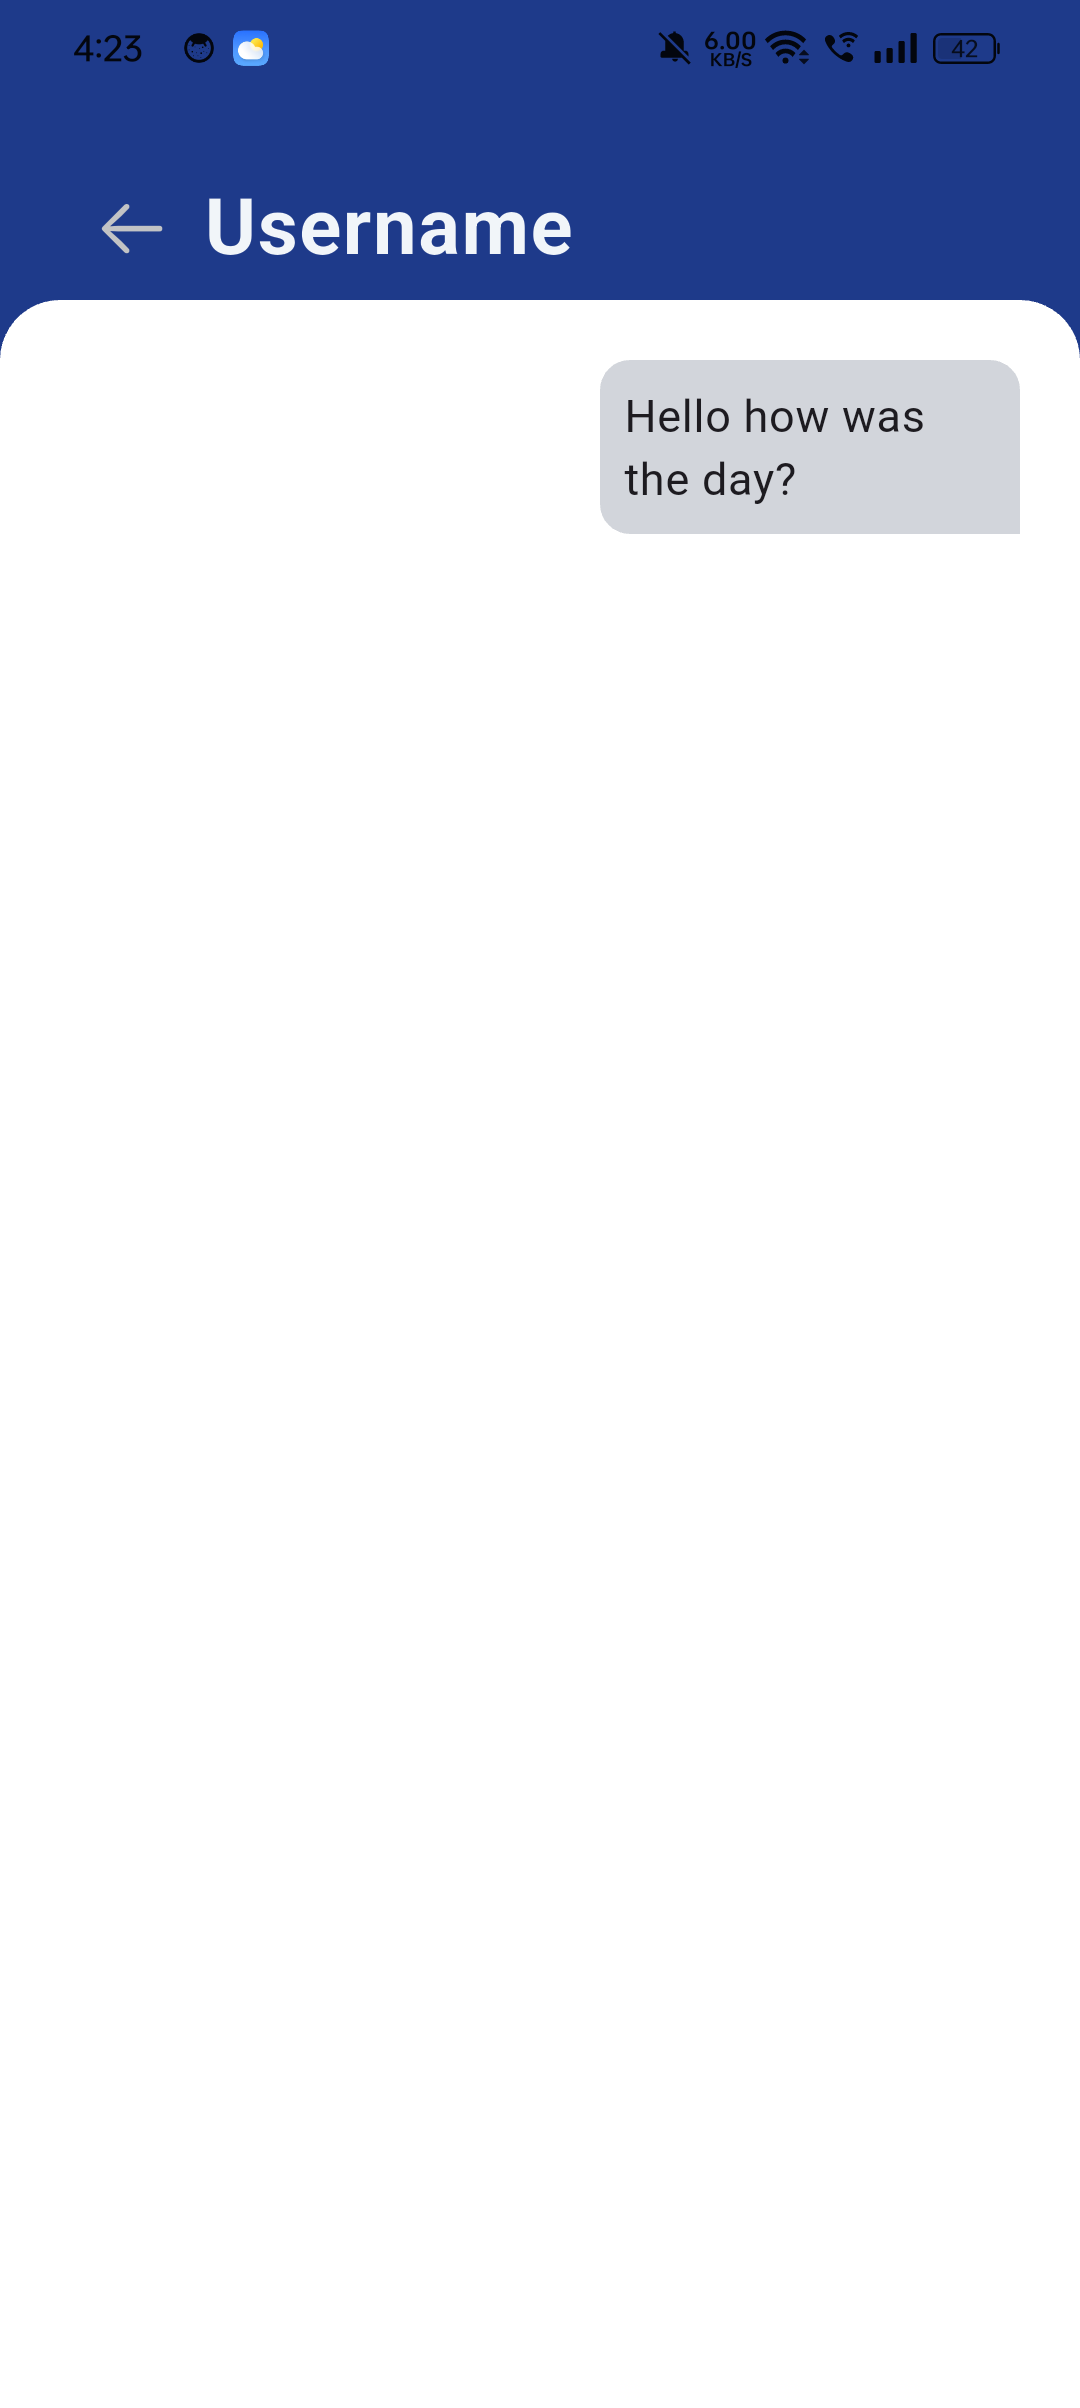
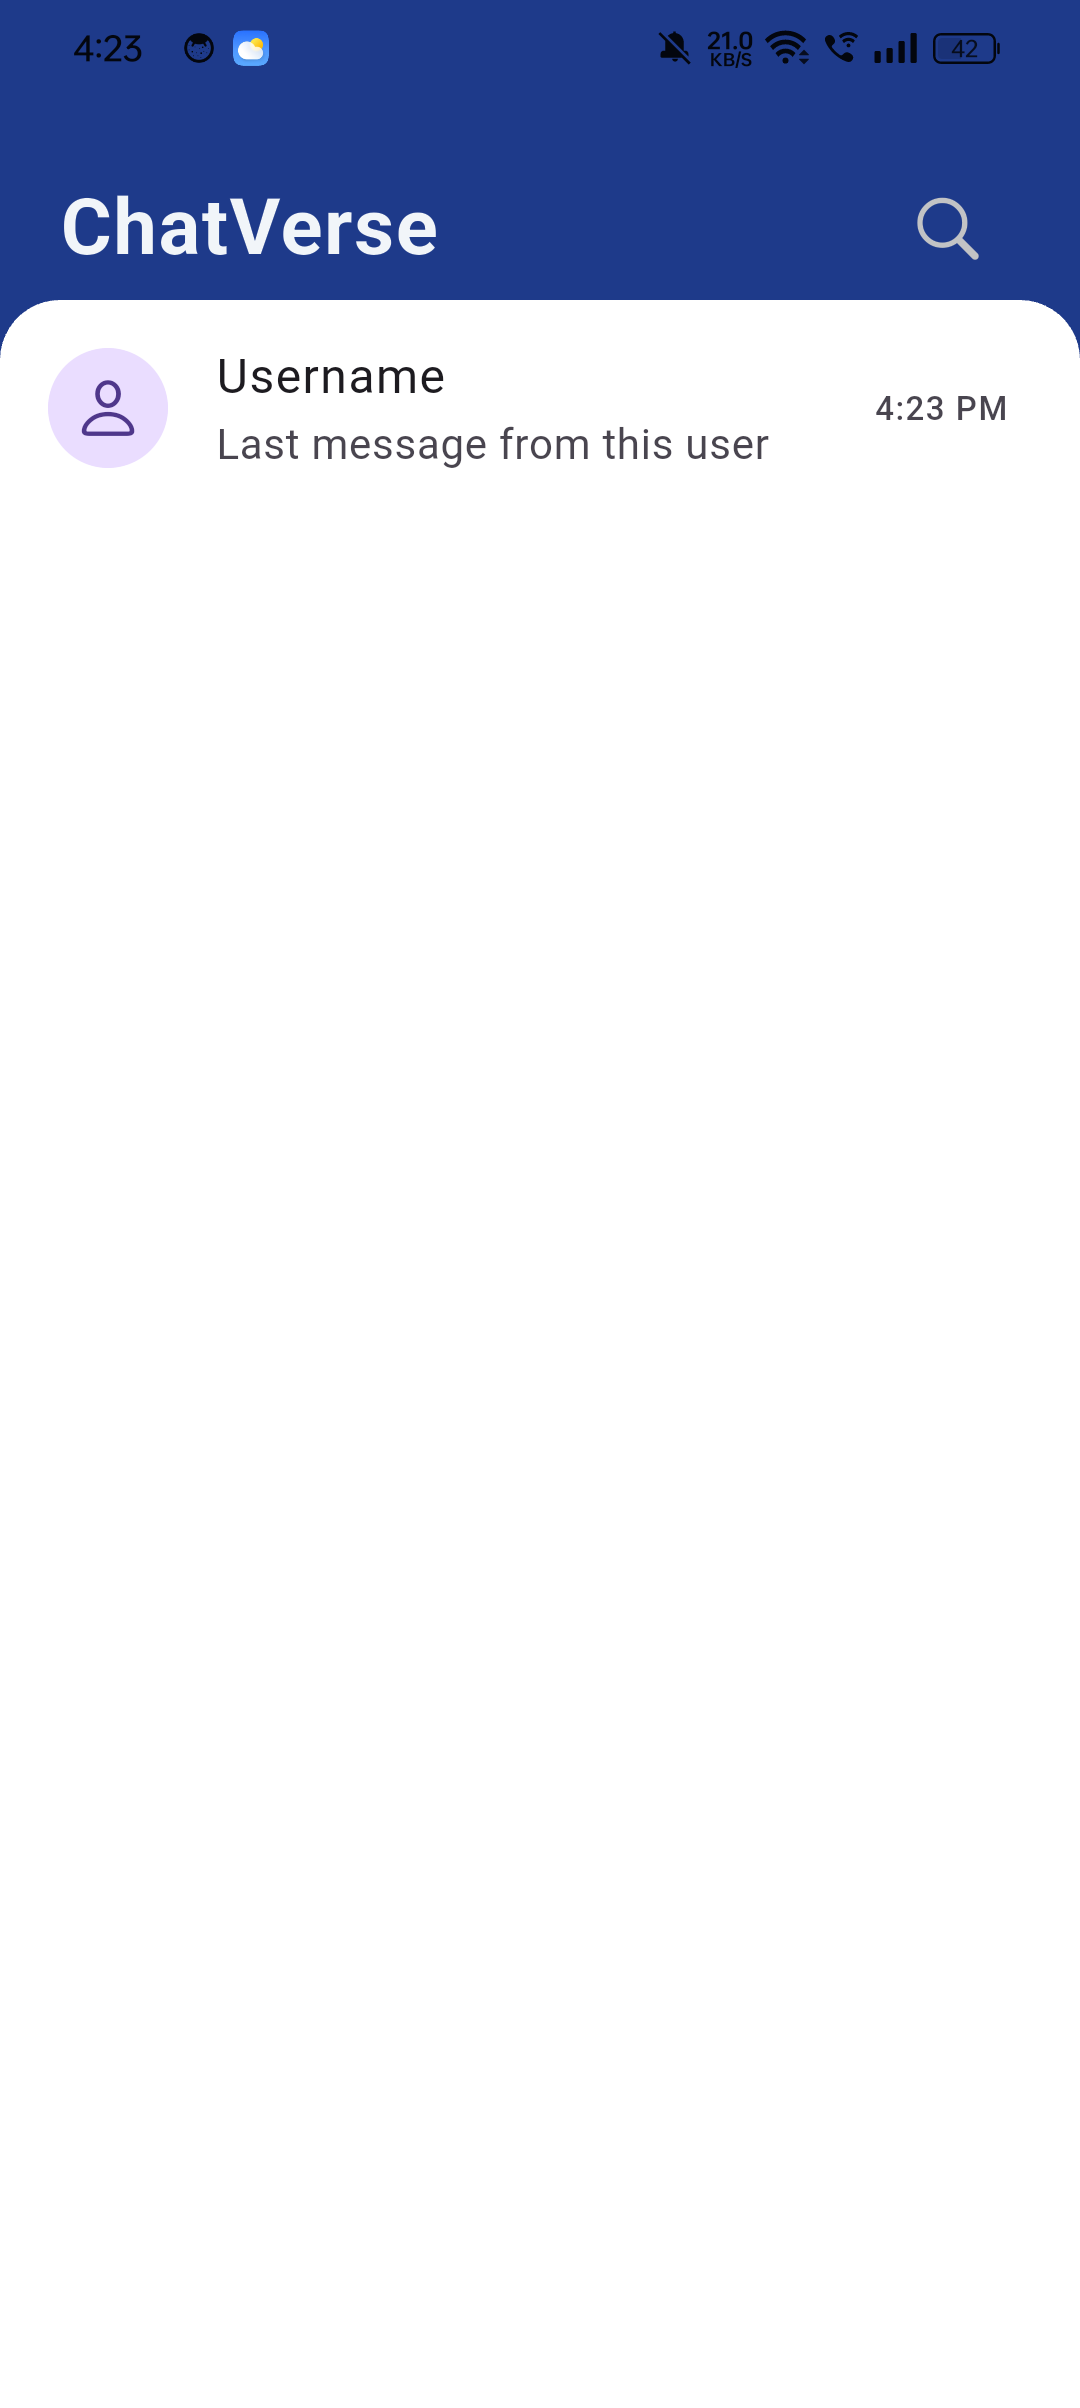
creating chat screen ui

diff --git a/app/lib/screens/chat_screen.dart b/app/lib/screens/chat_screen.dart
@@ -10,78 +10,175 @@ class ChatScreen extends StatefulWidget {
 }
 
 class _ChatScreenState extends State<ChatScreen> {
+  final _controller = TextEditingController();
   @override
   Widget build(BuildContext context) {
     return Scaffold(
       backgroundColor: const Color(0xFF1E3A8A),
-      body: Container(
-        key: ValueKey("container"),
-        child: ListView(
+      resizeToAvoidBottomInset: false,
+      body: SafeArea(
+        child: Column(
           children: [
             Padding(
-              padding: const EdgeInsets.only(
-                left: 20.0,
-                right: 20.0,
-                top: 20.0,
-              ),
-              child: Row(
-                // mainAxisAlignment: .spaceBetween,
-                children: [
-                  IconButton(
-                    onPressed: () {
-                      Navigator.pop(context);
-                    },
-                    icon: Icon(
-                      CupertinoIcons.arrow_left,
-                      color: Color.fromARGB(
-                        255,
-                        194,
-                        195,
-                        197,
-                      ).withValues(alpha: 1.2),
-                      size: 26,
-                    ),
-                  ),
-                  Text(
-                    widget.username,
-                    style: TextStyle(
-                      color: Color(0xFFF1F5F9),
-                      fontSize: 26.0,
-                      fontWeight: FontWeight.bold,
-                      letterSpacing: 0.5,
-                    ),
-                  ),
-                ],
-              ),
-            ),
-            Container(
-              padding: EdgeInsets.only(left: 20.0,right: 20.0,top: 20.0),
-              width: MediaQuery.of(context).size.width,
-              height: MediaQuery.of(context).size.height / 1.1,
-              decoration: BoxDecoration(
-                color: Colors.white,
-                borderRadius: BorderRadius.only(
-                  topLeft: Radius.circular(20),
-                  topRight: Radius.circular(20),
-                ),
-              ),
-              child: ListView(
-                children: [
-                  Container(
-                    padding: EdgeInsets.all(8),
-                   margin: EdgeInsets.only(left: MediaQuery.of(context).size.width/2),
-                    alignment: Alignment.bottomRight,
-                    decoration: BoxDecoration(
-                      color: Color.fromARGB(255, 210, 213, 219),
-                      borderRadius: BorderRadius.only(
-                        topLeft: Radius.circular(10),
-                        topRight: Radius.circular(10),
-                        bottomLeft: Radius.circular(10)
+              padding: const EdgeInsets.fromLTRB(20, 20, 20, 12),
+              child: SizedBox(
+                height: 56,
+                child: Stack(
+                  alignment: Alignment.center,
+                  children: [
+                    Align(
+                      alignment: Alignment.centerLeft,
+                      child: IconButton(
+                        onPressed: () => Navigator.pop(context),
+                        icon: const Icon(
+                          CupertinoIcons.arrow_left,
+                          color: Color(0xFFC2C3C5),
+                          size: 26,
+                        ),
                       ),
                     ),
-                    child: Text("Hello how was the day?",style: TextStyle(fontSize: 15),),
+                    Padding(
+                      padding: const EdgeInsets.symmetric(horizontal: 56),
+                      child: Text(
+                        widget.username,
+                        maxLines: 1,
+                        overflow: TextOverflow.ellipsis,
+                        style: const TextStyle(
+                          color: Color(0xFFF1F5F9),
+                          fontSize: 26.0,
+                          fontWeight: FontWeight.bold,
+                          letterSpacing: 0.5,
+                        ),
+                      ),
+                    ),
+                  ],
+                ),
+              ),
+            ),
+            Expanded(
+              child: Container(
+                width: double.infinity,
+                decoration: const BoxDecoration(
+                  color: Colors.white,
+                  borderRadius: BorderRadius.only(
+                    topLeft: Radius.circular(20),
+                    topRight: Radius.circular(20),
                   ),
-                ],
+                ),
+                child: Padding(
+                  padding: EdgeInsets.only(
+                    bottom: MediaQuery.of(context)
+                        .viewInsets
+                        .bottom, 
+                  ),
+                  child: Column(
+                    children: [
+                      Expanded(
+                        child: ListView(
+                          padding: const EdgeInsets.all(20),
+                          children: [
+                            Align(
+                              alignment: Alignment.centerRight,
+                              child: Container(
+                                padding: const EdgeInsets.all(10),
+                                constraints: BoxConstraints(
+                                  maxWidth:
+                                      MediaQuery.of(context).size.width * 0.7,
+                                ),
+                                decoration: const BoxDecoration(
+                                  color: Color(0xFFD2D5DB),
+                                  borderRadius: BorderRadius.only(
+                                    topLeft: Radius.circular(10),
+                                    topRight: Radius.circular(10),
+                                    bottomLeft: Radius.circular(10),
+                                  ),
+                                ),
+                                child: const Text(
+                                  "Hello how was the day?",
+                                  style: TextStyle(fontSize: 15),
+                                ),
+                              ),
+                            ),
+                            const SizedBox(height: 20),
+                            Align(
+                              alignment: Alignment.centerLeft,
+                              child: Container(
+                                padding: const EdgeInsets.all(10),
+                                constraints: BoxConstraints(
+                                  maxWidth:
+                                      MediaQuery.of(context).size.width * 0.7,
+                                ),
+                                decoration: const BoxDecoration(
+                                  color: Color(0xFFC9C4C4),
+                                  borderRadius: BorderRadius.only(
+                                    topLeft: Radius.circular(10),
+                                    topRight: Radius.circular(10),
+                                    bottomRight: Radius.circular(10),
+                                  ),
+                                ),
+                                child: const Text(
+                                  "it was great! what about you?",
+                                  style: TextStyle(fontSize: 15),
+                                ),
+                              ),
+                            ),
+                          ],
+                        ),
+                      ),
+                      Padding(
+                        padding: const EdgeInsets.fromLTRB(12, 8, 12, 12),
+                        child: Row(
+                          crossAxisAlignment: CrossAxisAlignment.end,
+                          children: [
+                            Expanded(
+                              child: TextField(
+                                controller: _controller,
+                                minLines: 1,
+                                maxLines: 5,
+                                textCapitalization:
+                                    TextCapitalization.sentences,
+                                keyboardType: TextInputType.multiline,
+                                style: const TextStyle(color: Colors.black87),
+                                cursorColor: const Color(0xFF1E3A8A),
+                                decoration: InputDecoration(
+                                  hintText: 'Type a message...',
+                                  hintStyle: const TextStyle(
+                                    color: Colors.grey,
+                                  ),
+                                  filled: true,
+                                  fillColor: const Color(0xFFEFF6FF),
+                                  isDense: true,
+                                  contentPadding: const EdgeInsets.symmetric(
+                                    horizontal: 18,
+                                    vertical: 12,
+                                  ),
+                                  border: OutlineInputBorder(
+                                    borderRadius: BorderRadius.circular(24),
+                                    borderSide: BorderSide.none,
+                                  ),
+                                ),
+                              ),
+                            ),
+                            const SizedBox(width: 8),
+                            IconButton(
+                              onPressed: () {},
+                              style: IconButton.styleFrom(
+                                backgroundColor: const Color(0xFF1E3A8A),
+                                shape: const CircleBorder(),
+                                padding: const EdgeInsets.all(12),
+                              ),
+                              icon: const Icon(
+                                CupertinoIcons.paperplane_fill,
+                                color: Colors.white,
+                                size: 20,
+                              ),
+                            ),
+                          ],
+                        ),
+                      ),
+                    ],
+                  ),
+                ),
               ),
             ),
           ],
